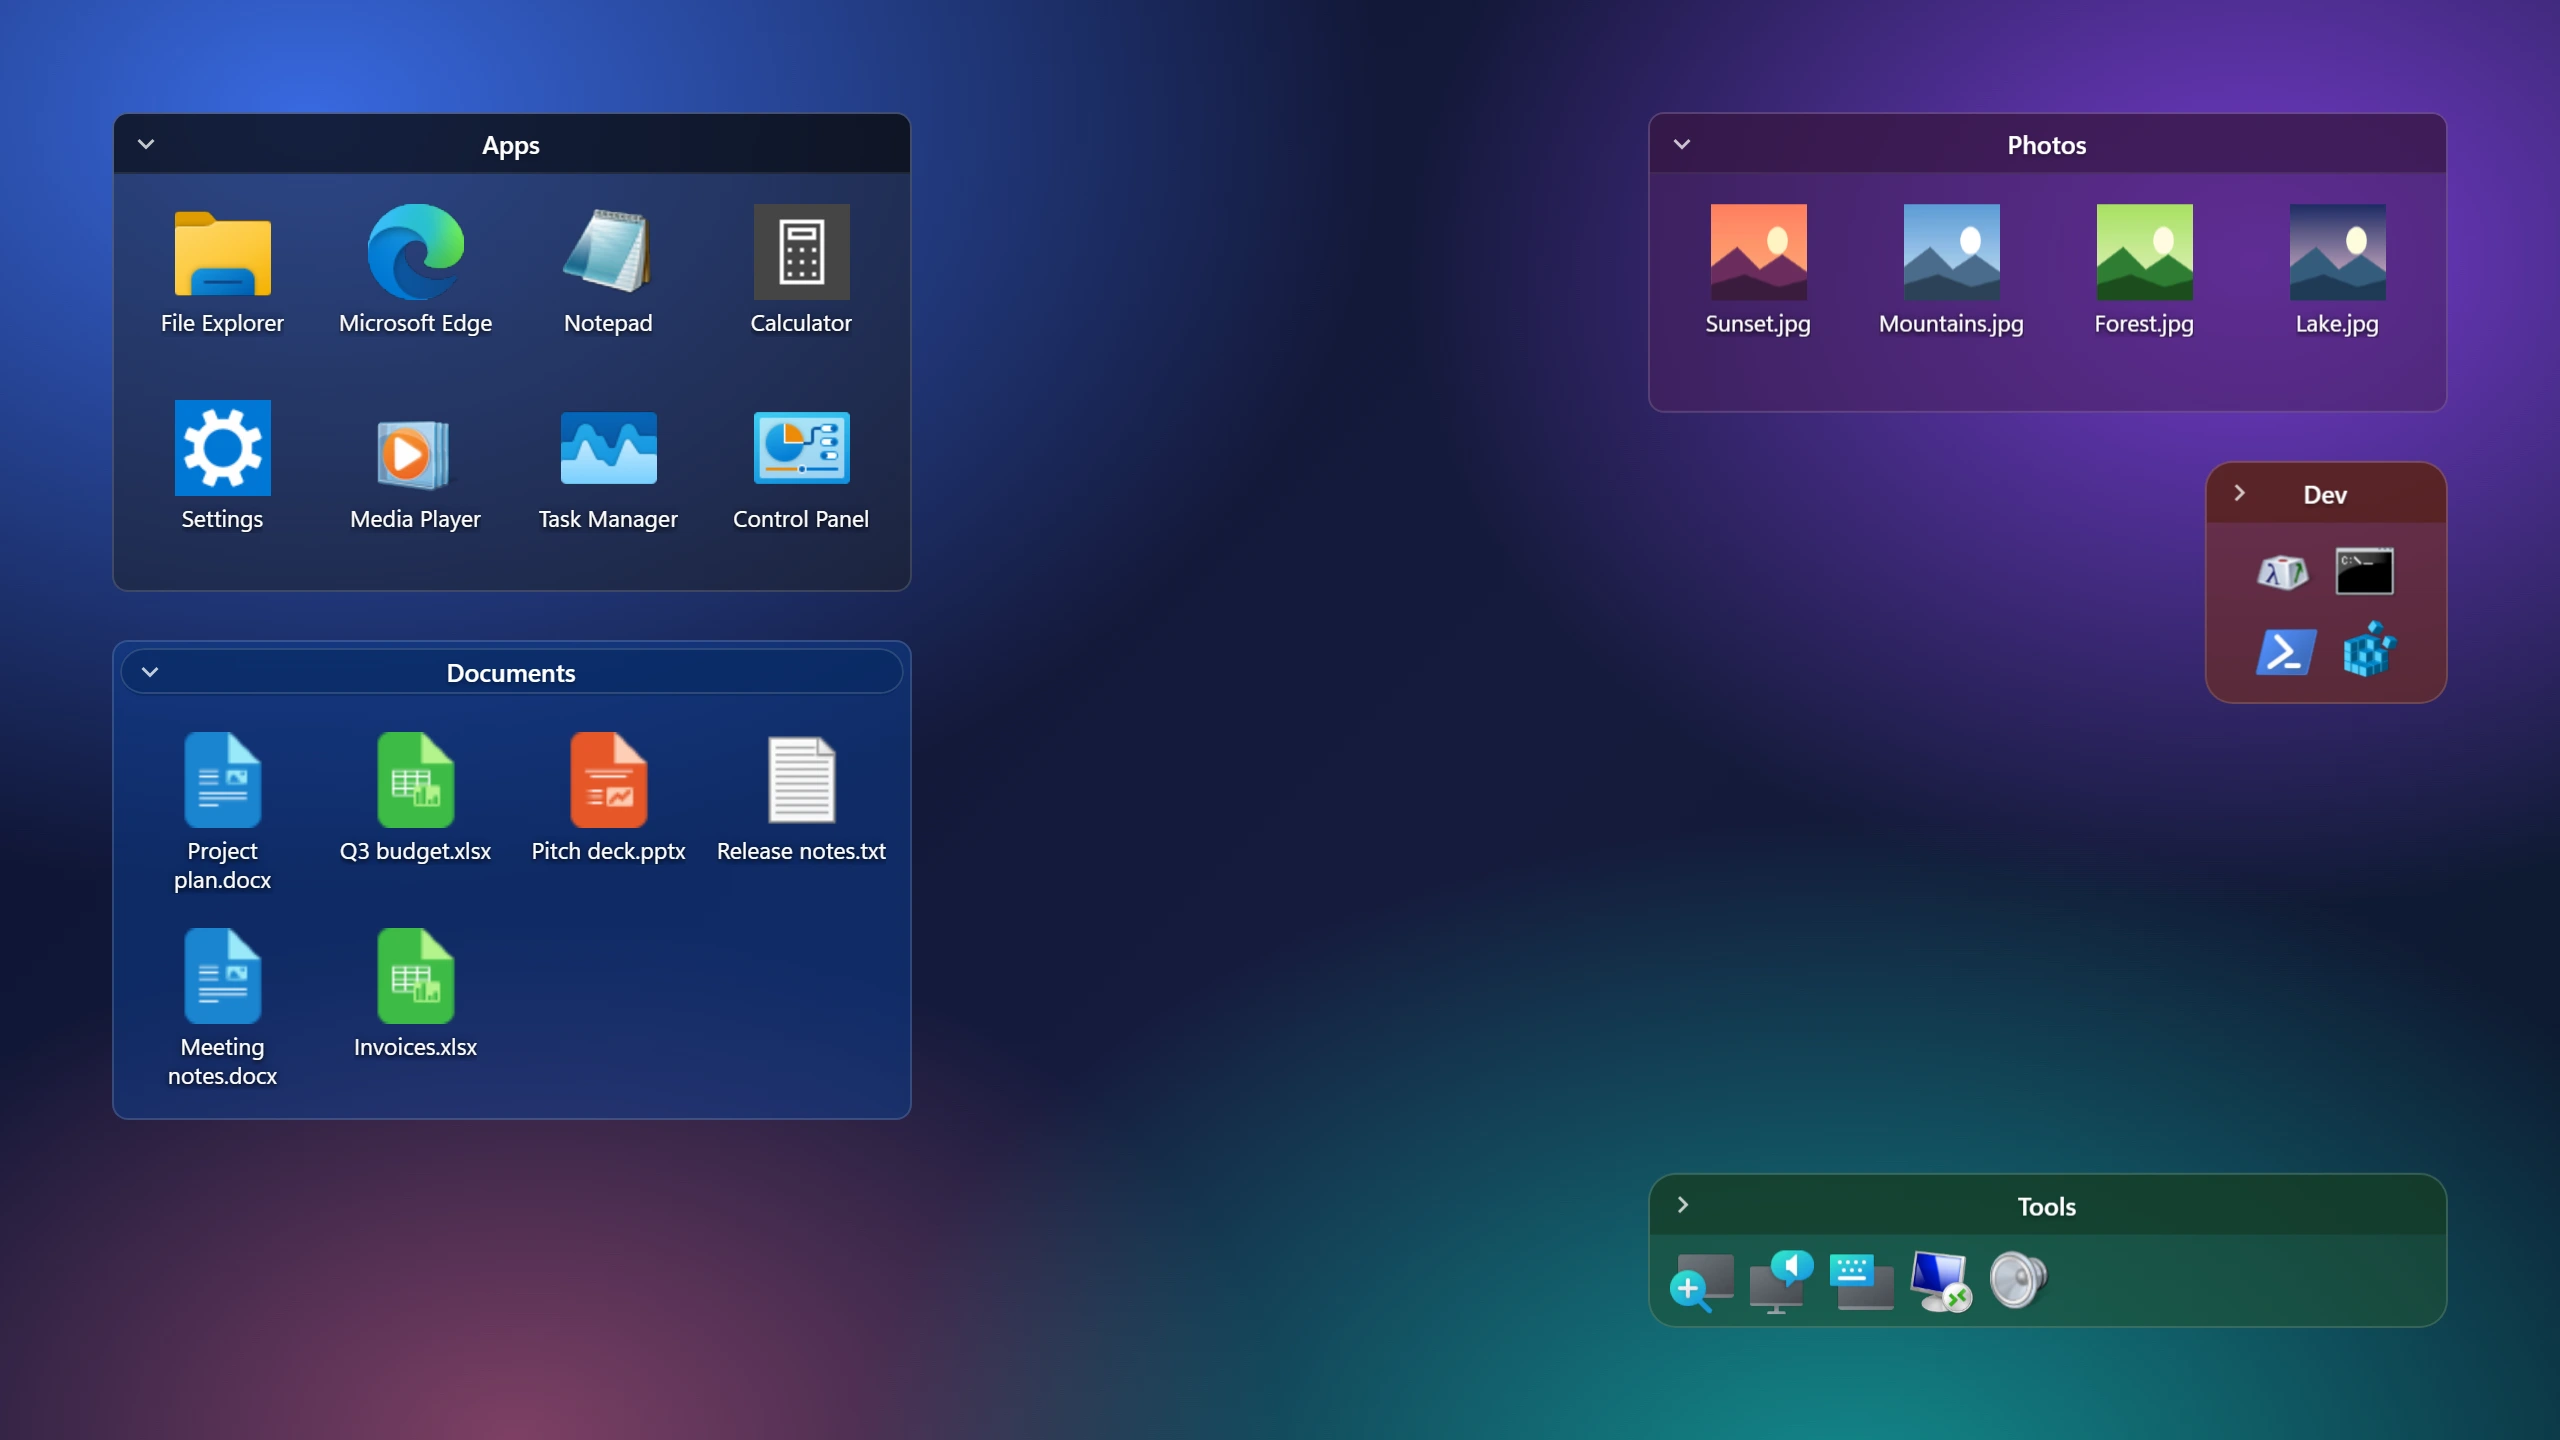
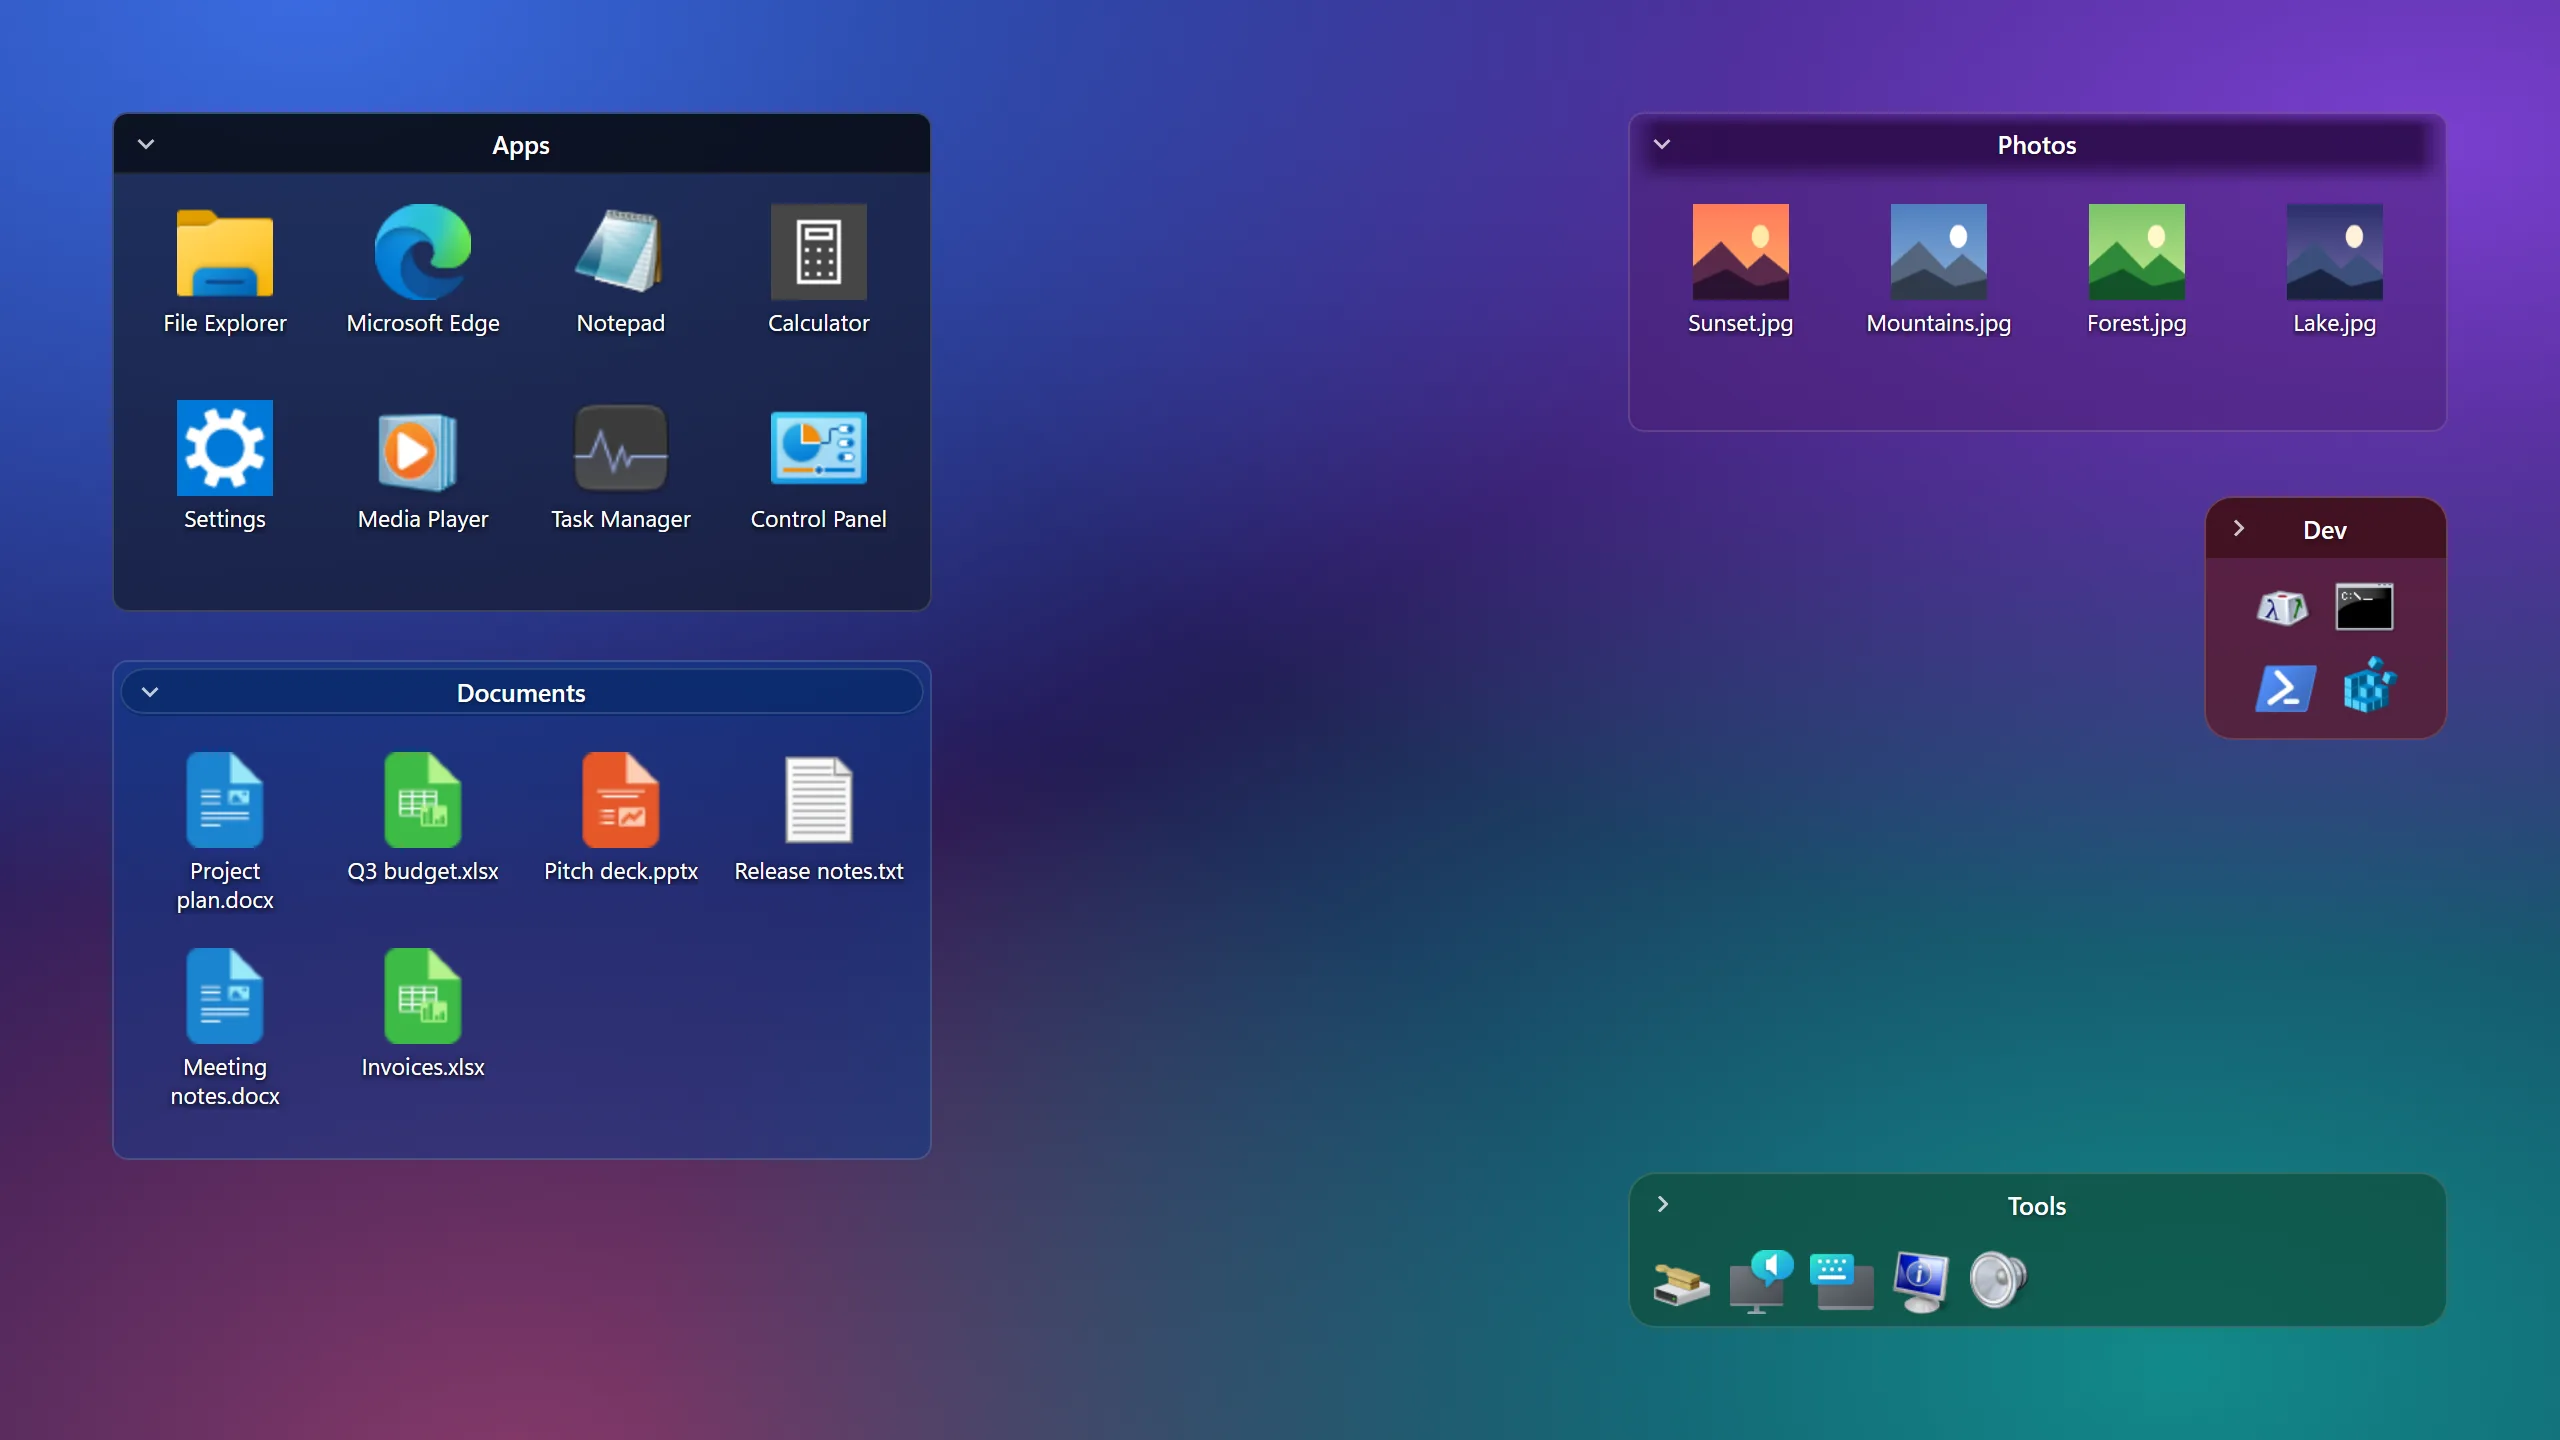
Update the README screenshots to show the title bar styles
The desktop view now has a panel in each title bar style: standard
(Apps), pill (Documents), soft (Photos) and minimal (Tools, collapsed to
a dock), next to a Dev panel collapsed to a tile. The settings view shows
the new title bar style tiles under the shape tiles.

They were rendered off-screen from the built renderer with demo panels,
at 2x, and saved as WebP (68 KB and 153 KB). The image descriptions in
the README match the new pictures.

diff --git a/README.md b/README.md
@@ -2,7 +2,7 @@
 
 Rectangular, customizable panels on the Windows desktop for sorting your icons. It works like Stardock Fences: drop shortcuts into a panel to group them, then collapse the panel when you want a clean desktop.
 
-![Panels on the Windows desktop: Apps, Documents and Photos panels, a Dev panel collapsed to a tile, and a Tools panel collapsed to a dock](docs/screenshots/desktop.webp)
+![Panels on the Windows desktop: an Apps panel with a standard title bar, a Documents panel with a pill title bar, a Photos panel with a soft title bar, a Dev panel collapsed to a tile, and a Tools panel with a minimal title bar collapsed to a dock](docs/screenshots/desktop.webp)
 
 Free and open source under the [MIT License](LICENSE).
 
@@ -33,7 +33,7 @@ Free and open source under the [MIT License](LICENSE).
 - **Safe deletes.** Deleting a panel asks whether to move its items back to the Desktop. Files are never deleted.
 
 <p align="center">
-  <img src="docs/screenshots/settings.webp" width="640" alt="The panel settings window and the app settings window, next to an Apps panel, a Photos panel and a Dev panel collapsed to a tile">
+  <img src="docs/screenshots/settings.webp" width="640" alt="The panel settings window, with picture tiles for the title bar shape and style, and the app settings window, next to an Apps panel, a Photos panel and a Dev panel collapsed to a tile">
 </p>
 
 ## Getting started
